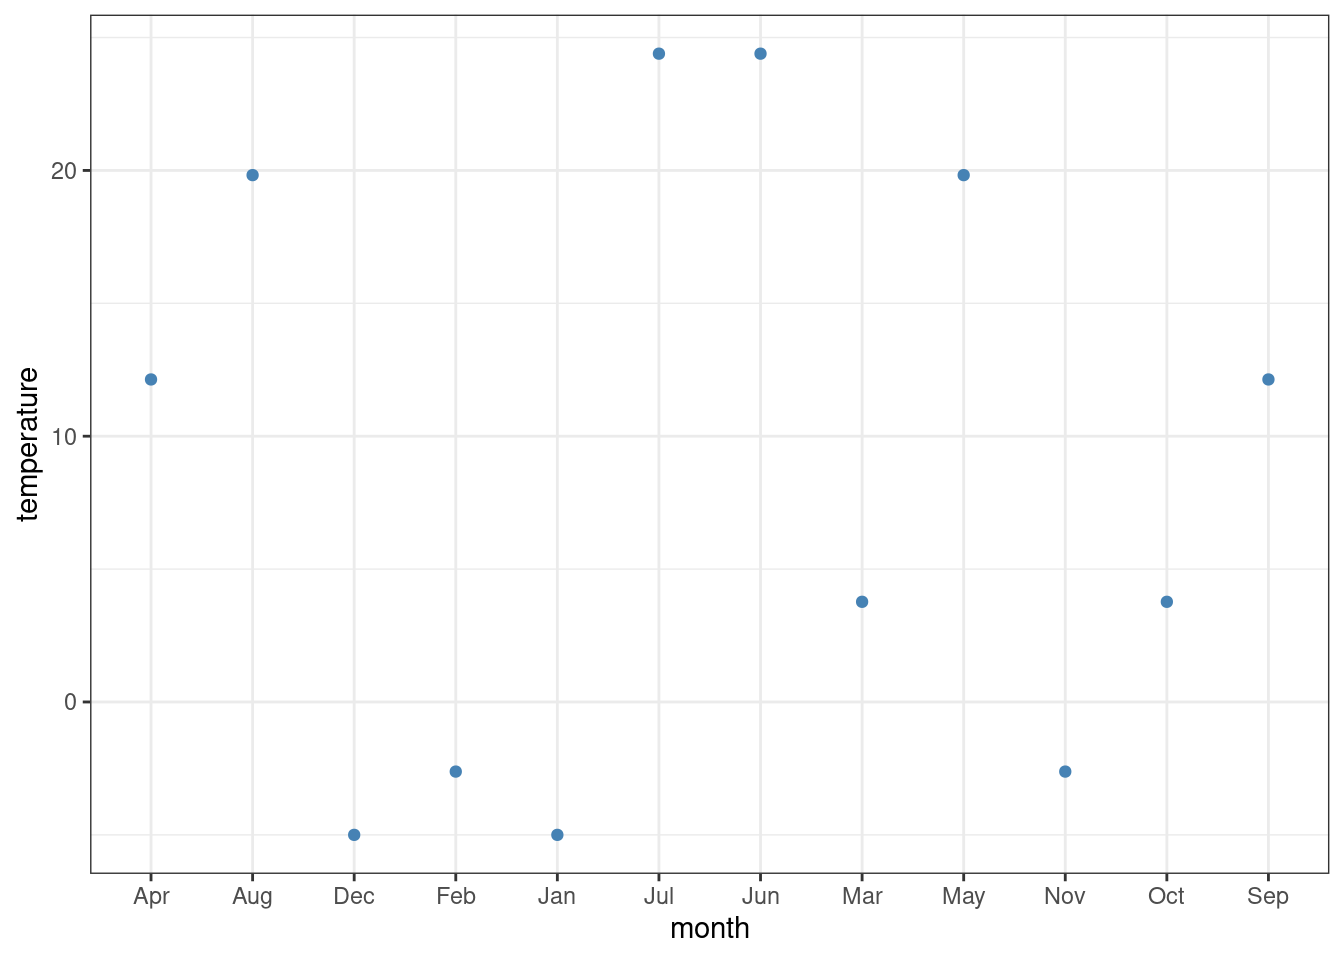
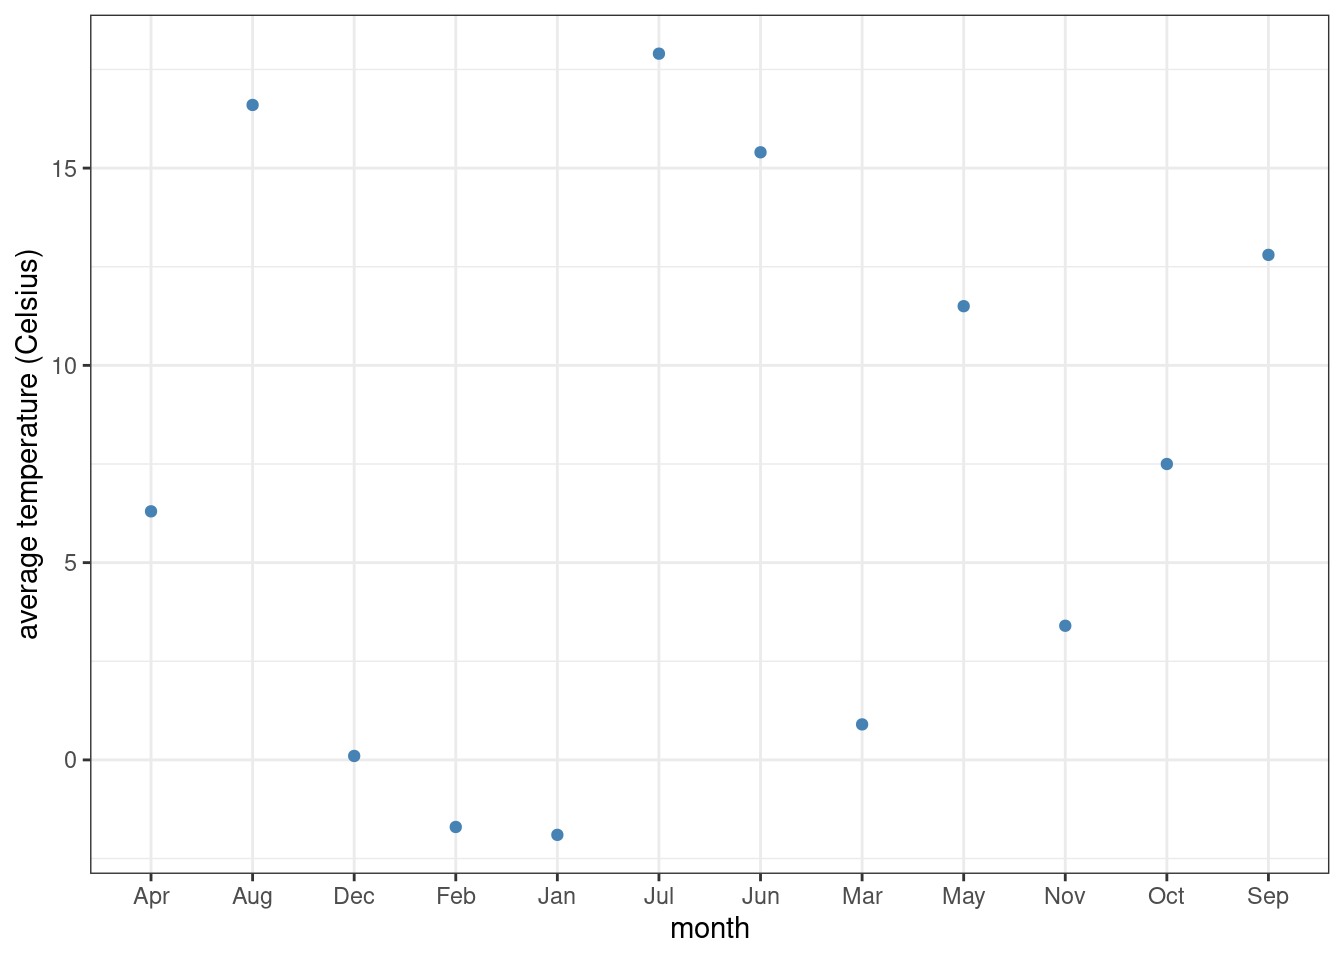
Changed from made-up temperature data to real data in Chapter 8 (Some further plotting options)

diff --git a/docs/Further_plotting_options.html b/docs/Further_plotting_options.html
@@ -520,60 +520,63 @@ Note
 </section>
 <section id="sec-factors" class="level2" data-number="8.3">
 <h2 data-number="8.3" class="anchored" data-anchor-id="sec-factors"><span class="header-section-number">8.3</span> Reordering labels using factors</h2>
-<p>In the previous examples, the order of text labels was always automatically determined. The basic rule in R is that the ordering follows the alphabet: the default is for <code>setosa</code> to precede <code>versicolor</code>, which will be followed by <code>virginica</code>. This default ordering can be inconvenient, however. Consider the following table of data, with hypothetical temperature measurements (in Celsius degrees) for each month of the year:</p>
+<p>In the previous examples, the order of text labels was always automatically determined. The basic rule in R is that the ordering follows the alphabet: the default is for <code>setosa</code> to precede <code>versicolor</code>, which will be followed by <code>virginica</code>. This default ordering can be inconvenient, however. Consider the data file <a href="https://raw.githubusercontent.com/dysordys/data-with-R/main/data/temperature_Linkoping.csv"><code>temperature_Linkoping.csv</code></a> of average temperatures per month, measured in the town of Linköping, Sweden:</p>
 <div class="cell">
-<div class="sourceCode cell-code" id="cb14"><pre class="sourceCode r code-with-copy"><code class="sourceCode r"><span id="cb14-1"><a href="#cb14-1" aria-hidden="true" tabindex="-1"></a><span class="fu">tibble</span>(<span class="at">month =</span> month.abb, <span class="at">temperature =</span> <span class="dv">10</span> <span class="sc">-</span> <span class="dv">15</span><span class="sc">*</span><span class="fu">cos</span>(<span class="fu">seq</span>(<span class="dv">0</span>, <span class="dv">2</span><span class="sc">*</span>pi, <span class="at">l=</span><span class="dv">12</span>)))</span></code><button title="Copy to Clipboard" class="code-copy-button"><i class="bi"></i></button></pre></div>
+<div class="sourceCode cell-code" id="cb14"><pre class="sourceCode r code-with-copy"><code class="sourceCode r"><span id="cb14-1"><a href="#cb14-1" aria-hidden="true" tabindex="-1"></a><span class="fu">read_csv</span>(<span class="st">"temperature_Linkoping.csv"</span>)</span></code><button title="Copy to Clipboard" class="code-copy-button"><i class="bi"></i></button></pre></div>
 <div class="cell-output cell-output-stdout">
 <pre><code># A tibble: 12 × 2
-   month temperature
-   &lt;chr&gt;       &lt;dbl&gt;
- 1 Jan         -5   
- 2 Feb         -2.62
- 3 Mar          3.77
- 4 Apr         12.1 
- 5 May         19.8 
- 6 Jun         24.4 
- 7 Jul         24.4 
- 8 Aug         19.8 
- 9 Sep         12.1 
-10 Oct          3.77
-11 Nov         -2.62
-12 Dec         -5   </code></pre>
+   month average_temperature_C
+   &lt;chr&gt;                 &lt;dbl&gt;
+ 1 Jan                    -1.9
+ 2 Feb                    -1.7
+ 3 Mar                     0.9
+ 4 Apr                     6.3
+ 5 May                    11.5
+ 6 Jun                    15.4
+ 7 Jul                    17.9
+ 8 Aug                    16.6
+ 9 Sep                    12.8
+10 Oct                     7.5
+11 Nov                     3.4
+12 Dec                     0.1</code></pre>
 </div>
 </div>
-<p>(<code>month.abb</code> is a built-in vector of character strings in R, with the abbreviations of the months’ names from January to December.) So far so good. However, if we plot this with months along the x-axis and temperature along the y-axis, we run into trouble because R displays items by alphabetical instead of chronological order:</p>
+<p>The table has two columns: <code>month</code> and <code>average_temperature_C</code>, giving the mean temperature in each month across years 1991-2021.<a href="#fn1" class="footnote-ref" id="fnref1" role="doc-noteref"><sup>1</sup></a> So far so good. However, if we plot this with months along the x-axis and temperature along the y-axis, we run into trouble because R displays items by alphabetical instead of chronological order:</p>
 <div class="cell">
-<div class="sourceCode cell-code" id="cb16"><pre class="sourceCode r code-with-copy"><code class="sourceCode r"><span id="cb16-1"><a href="#cb16-1" aria-hidden="true" tabindex="-1"></a><span class="fu">tibble</span>(<span class="at">month =</span> month.abb, <span class="at">temperature =</span> <span class="dv">10</span> <span class="sc">-</span> <span class="dv">15</span><span class="sc">*</span><span class="fu">cos</span>(<span class="fu">seq</span>(<span class="dv">0</span>, <span class="dv">2</span><span class="sc">*</span>pi, <span class="at">l=</span><span class="dv">12</span>))) <span class="sc">|&gt;</span></span>
+<div class="sourceCode cell-code" id="cb16"><pre class="sourceCode r code-with-copy"><code class="sourceCode r"><span id="cb16-1"><a href="#cb16-1" aria-hidden="true" tabindex="-1"></a><span class="fu">read_csv</span>(<span class="st">"temperature_Linkoping.csv"</span>) <span class="sc">|&gt;</span></span>
 <span id="cb16-2"><a href="#cb16-2" aria-hidden="true" tabindex="-1"></a>  <span class="fu">ggplot</span>() <span class="sc">+</span></span>
-<span id="cb16-3"><a href="#cb16-3" aria-hidden="true" tabindex="-1"></a>  <span class="fu">aes</span>(<span class="at">x =</span> month, <span class="at">y =</span> temperature) <span class="sc">+</span></span>
+<span id="cb16-3"><a href="#cb16-3" aria-hidden="true" tabindex="-1"></a>  <span class="fu">aes</span>(<span class="at">x =</span> month, <span class="at">y =</span> average_temperature_C) <span class="sc">+</span></span>
 <span id="cb16-4"><a href="#cb16-4" aria-hidden="true" tabindex="-1"></a>  <span class="fu">geom_point</span>(<span class="at">colour =</span> <span class="st">"steelblue"</span>) <span class="sc">+</span></span>
-<span id="cb16-5"><a href="#cb16-5" aria-hidden="true" tabindex="-1"></a>  <span class="fu">theme_bw</span>()</span></code><button title="Copy to Clipboard" class="code-copy-button"><i class="bi"></i></button></pre></div>
+<span id="cb16-5"><a href="#cb16-5" aria-hidden="true" tabindex="-1"></a>  <span class="fu">scale_y_continuous</span>(<span class="at">name =</span> <span class="st">"average temperature (Celsius)"</span>) <span class="sc">+</span></span>
+<span id="cb16-6"><a href="#cb16-6" aria-hidden="true" tabindex="-1"></a>  <span class="fu">theme_bw</span>()</span></code><button title="Copy to Clipboard" class="code-copy-button"><i class="bi"></i></button></pre></div>
 <div class="cell-output-display">
 <p><img src="Further_plotting_options_files/figure-html/unnamed-chunk-15-1.png" class="img-fluid" width="672"></p>
 </div>
 </div>
 <p>To fix this, one must convert the type of <code>month</code> from a simple vector of character strings to a vector of <em>factors</em>. Factors are categorical variables (i.e., take on well-defined distinct values instead of varying on a continuous scale like double-precision numbers), but with an extra attribute which determines the order of those values. This ordering is often referred to as the <em>levels</em> of the factor. The first of the values has level 1, the next one level 2, and so on.</p>
-<p>One very convenient way of assigning factor levels is through the <code>tidyverse</code> function <code>as_factor</code>.<a href="#fn1" class="footnote-ref" id="fnref1" role="doc-noteref"><sup>1</sup></a> This function takes a vector of values and, if the values are numeric, assigns them levels based on those numerical values. However, if the values are character strings, then the levels are assigned in order of appearance within the vector. This is perfect for us, because the months are in proper order already within the tibble:</p>
+<p>One very convenient way of assigning factor levels is through the <code>tidyverse</code> function <code>as_factor</code>.<a href="#fn2" class="footnote-ref" id="fnref2" role="doc-noteref"><sup>2</sup></a> This function takes a vector of values and, if the values are numeric, assigns them levels based on those numerical values. However, if the values are character strings, then the levels are assigned in order of appearance within the vector. This is perfect for us, because the months are in proper order already within the tibble:</p>
 <div class="cell">
-<div class="sourceCode cell-code" id="cb17"><pre class="sourceCode r code-with-copy"><code class="sourceCode r"><span id="cb17-1"><a href="#cb17-1" aria-hidden="true" tabindex="-1"></a><span class="fu">tibble</span>(<span class="at">month =</span> month.abb, <span class="at">temperature =</span> <span class="dv">10</span> <span class="sc">-</span> <span class="dv">15</span><span class="sc">*</span><span class="fu">cos</span>(<span class="fu">seq</span>(<span class="dv">0</span>, <span class="dv">2</span><span class="sc">*</span>pi, <span class="at">l=</span><span class="dv">12</span>))) <span class="sc">|&gt;</span></span>
+<div class="sourceCode cell-code" id="cb17"><pre class="sourceCode r code-with-copy"><code class="sourceCode r"><span id="cb17-1"><a href="#cb17-1" aria-hidden="true" tabindex="-1"></a><span class="fu">read_csv</span>(<span class="st">"temperature_Linkoping.csv"</span>) <span class="sc">|&gt;</span></span>
 <span id="cb17-2"><a href="#cb17-2" aria-hidden="true" tabindex="-1"></a>  <span class="fu">mutate</span>(<span class="at">month =</span> <span class="fu">as_factor</span>(month)) <span class="sc">|&gt;</span></span>
 <span id="cb17-3"><a href="#cb17-3" aria-hidden="true" tabindex="-1"></a>  <span class="fu">ggplot</span>() <span class="sc">+</span></span>
-<span id="cb17-4"><a href="#cb17-4" aria-hidden="true" tabindex="-1"></a>  <span class="fu">aes</span>(<span class="at">x =</span> month, <span class="at">y =</span> temperature) <span class="sc">+</span></span>
+<span id="cb17-4"><a href="#cb17-4" aria-hidden="true" tabindex="-1"></a>  <span class="fu">aes</span>(<span class="at">x =</span> month, <span class="at">y =</span> average_temperature_C) <span class="sc">+</span></span>
 <span id="cb17-5"><a href="#cb17-5" aria-hidden="true" tabindex="-1"></a>  <span class="fu">geom_point</span>(<span class="at">colour =</span> <span class="st">"steelblue"</span>) <span class="sc">+</span></span>
-<span id="cb17-6"><a href="#cb17-6" aria-hidden="true" tabindex="-1"></a>  <span class="fu">theme_bw</span>()</span></code><button title="Copy to Clipboard" class="code-copy-button"><i class="bi"></i></button></pre></div>
+<span id="cb17-6"><a href="#cb17-6" aria-hidden="true" tabindex="-1"></a>  <span class="fu">scale_y_continuous</span>(<span class="at">name =</span> <span class="st">"average temperature (Celsius)"</span>) <span class="sc">+</span></span>
+<span id="cb17-7"><a href="#cb17-7" aria-hidden="true" tabindex="-1"></a>  <span class="fu">theme_bw</span>()</span></code><button title="Copy to Clipboard" class="code-copy-button"><i class="bi"></i></button></pre></div>
 <div class="cell-output-display">
 <p><img src="Further_plotting_options_files/figure-html/unnamed-chunk-16-1.png" class="img-fluid" width="672"></p>
 </div>
 </div>
-<p>It is also possible to take a factor and reassign its factor levels manually. This can be done with the <code>fct_relevel</code> function:</p>
+<p>It is also possible to take a factor and reassign its levels manually. This can be done with the <code>fct_relevel</code> function:</p>
 <div class="cell">
-<div class="sourceCode cell-code" id="cb18"><pre class="sourceCode r code-with-copy"><code class="sourceCode r"><span id="cb18-1"><a href="#cb18-1" aria-hidden="true" tabindex="-1"></a><span class="fu">tibble</span>(<span class="at">month =</span> month.abb, <span class="at">temperature =</span> <span class="dv">10</span> <span class="sc">-</span> <span class="dv">15</span><span class="sc">*</span><span class="fu">cos</span>(<span class="fu">seq</span>(<span class="dv">0</span>, <span class="dv">2</span><span class="sc">*</span>pi, <span class="at">l=</span><span class="dv">12</span>))) <span class="sc">|&gt;</span></span>
+<div class="sourceCode cell-code" id="cb18"><pre class="sourceCode r code-with-copy"><code class="sourceCode r"><span id="cb18-1"><a href="#cb18-1" aria-hidden="true" tabindex="-1"></a><span class="fu">read_csv</span>(<span class="st">"temperature_Linkoping.csv"</span>) <span class="sc">|&gt;</span></span>
 <span id="cb18-2"><a href="#cb18-2" aria-hidden="true" tabindex="-1"></a>  <span class="fu">mutate</span>(<span class="at">month =</span> <span class="fu">fct_relevel</span>(month, <span class="st">"Jan"</span>, <span class="st">"Feb"</span>, <span class="st">"Mar"</span>, <span class="st">"Apr"</span>, <span class="st">"May"</span>, <span class="st">"Jun"</span>,</span>
 <span id="cb18-3"><a href="#cb18-3" aria-hidden="true" tabindex="-1"></a>                             <span class="st">"Jul"</span>, <span class="st">"Aug"</span>, <span class="st">"Sep"</span>, <span class="st">"Oct"</span>, <span class="st">"Nov"</span>, <span class="st">"Dec"</span>)) <span class="sc">|&gt;</span></span>
 <span id="cb18-4"><a href="#cb18-4" aria-hidden="true" tabindex="-1"></a>  <span class="fu">ggplot</span>() <span class="sc">+</span></span>
-<span id="cb18-5"><a href="#cb18-5" aria-hidden="true" tabindex="-1"></a>  <span class="fu">aes</span>(<span class="at">x =</span> month, <span class="at">y =</span> temperature) <span class="sc">+</span></span>
+<span id="cb18-5"><a href="#cb18-5" aria-hidden="true" tabindex="-1"></a>  <span class="fu">aes</span>(<span class="at">x =</span> month, <span class="at">y =</span> average_temperature_C) <span class="sc">+</span></span>
 <span id="cb18-6"><a href="#cb18-6" aria-hidden="true" tabindex="-1"></a>  <span class="fu">geom_point</span>(<span class="at">colour =</span> <span class="st">"steelblue"</span>) <span class="sc">+</span></span>
-<span id="cb18-7"><a href="#cb18-7" aria-hidden="true" tabindex="-1"></a>  <span class="fu">theme_bw</span>()</span></code><button title="Copy to Clipboard" class="code-copy-button"><i class="bi"></i></button></pre></div>
+<span id="cb18-7"><a href="#cb18-7" aria-hidden="true" tabindex="-1"></a>  <span class="fu">scale_y_continuous</span>(<span class="at">name =</span> <span class="st">"average temperature (Celsius)"</span>) <span class="sc">+</span></span>
+<span id="cb18-8"><a href="#cb18-8" aria-hidden="true" tabindex="-1"></a>  <span class="fu">theme_bw</span>()</span></code><button title="Copy to Clipboard" class="code-copy-button"><i class="bi"></i></button></pre></div>
 <div class="cell-output-display">
 <p><img src="Further_plotting_options_files/figure-html/unnamed-chunk-17-1.png" class="img-fluid" width="672"></p>
 </div>
@@ -700,7 +703,8 @@ Fauchald, Per, Taejin Park, Hans Tømmervik, Ranga Myneni, and Vera Helene Hausn
 <section id="footnotes" class="footnotes footnotes-end-of-document" role="doc-endnotes">
 <hr>
 <ol>
-<li id="fn1"><p>There also exists a similarly-named function called <code>as.factor</code>, in addition to <code>as_factor</code>. It is the base R version of the same functionality. As usual, the <code>tidyverse</code> version offers improvements over the original, so it is recommended not to use <code>as.factor</code> at all, relying on just <code>as_factor</code> instead.<a href="#fnref1" class="footnote-back" role="doc-backlink">↩</a></p></li>
+<li id="fn1"><p>Data from <a href="https://climate-data.org" class="uri">https://climate-data.org</a>.<a href="#fnref1" class="footnote-back" role="doc-backlink">↩</a></p></li>
+<li id="fn2"><p>There also exists a similarly-named function called <code>as.factor</code>, in addition to <code>as_factor</code>. It is the base R version of the same functionality. As usual, the <code>tidyverse</code> version offers improvements over the original, so it is recommended not to use <code>as.factor</code> at all, relying on just <code>as_factor</code> instead.<a href="#fnref2" class="footnote-back" role="doc-backlink">↩</a></p></li>
 </ol>
 </section>
 
